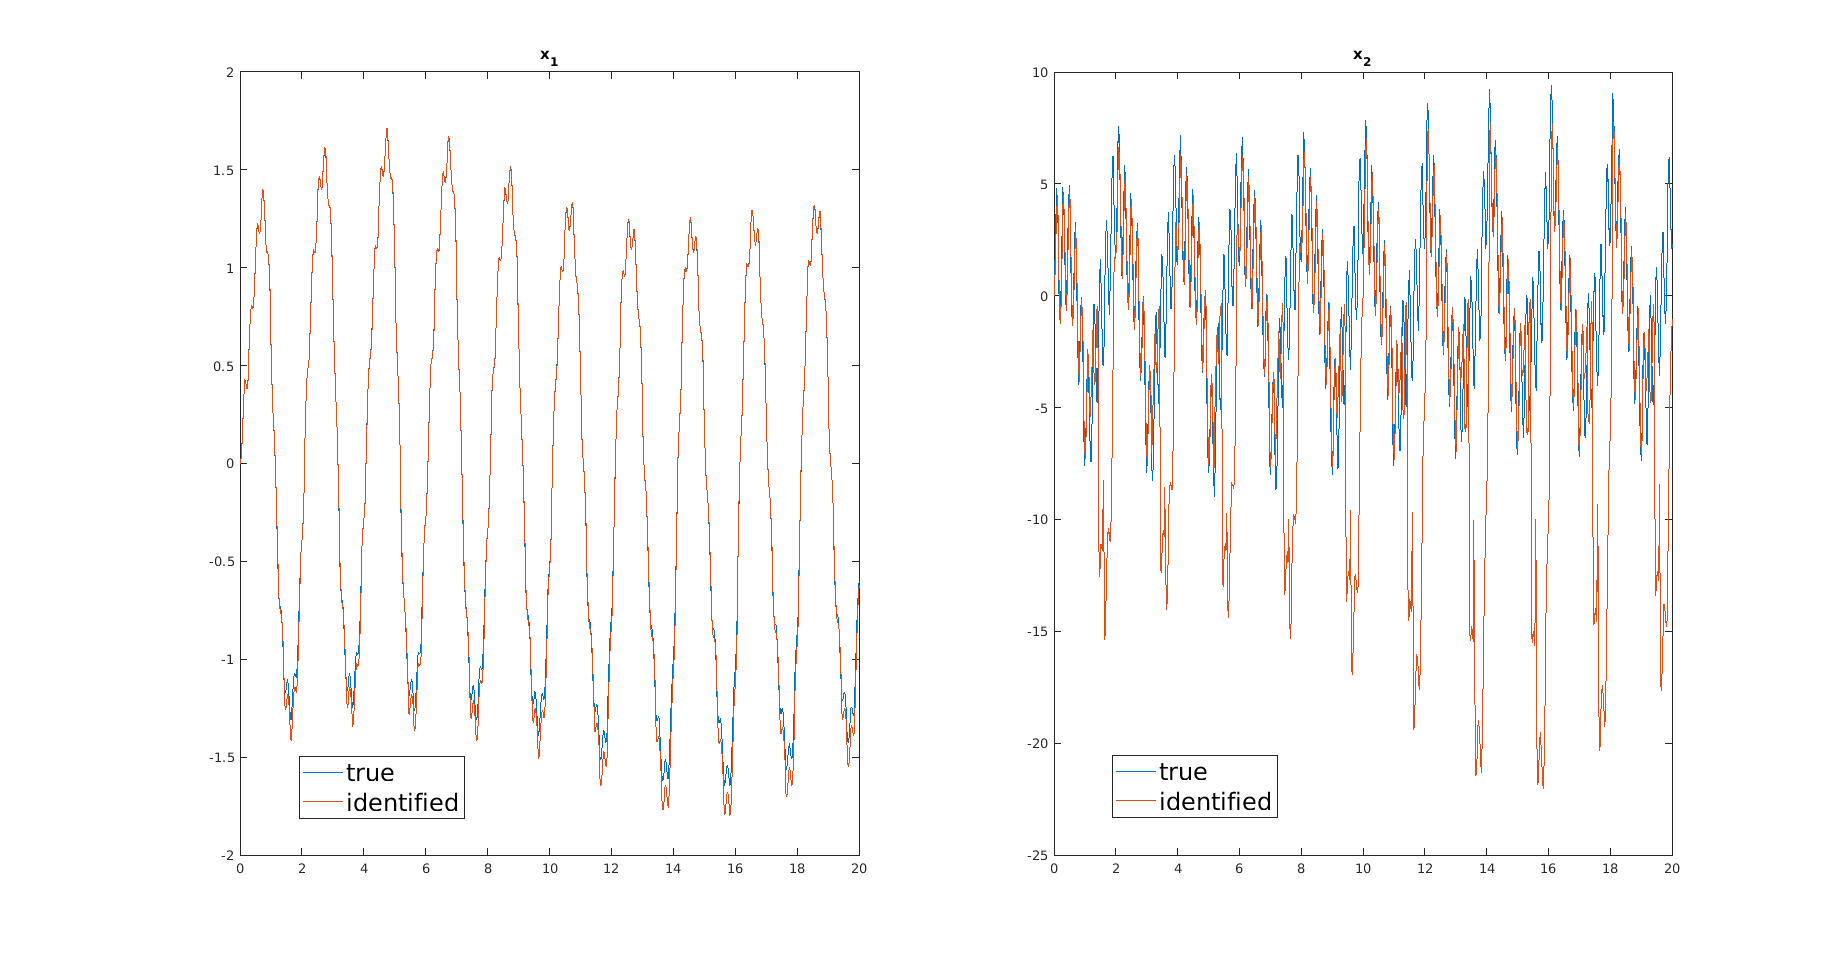
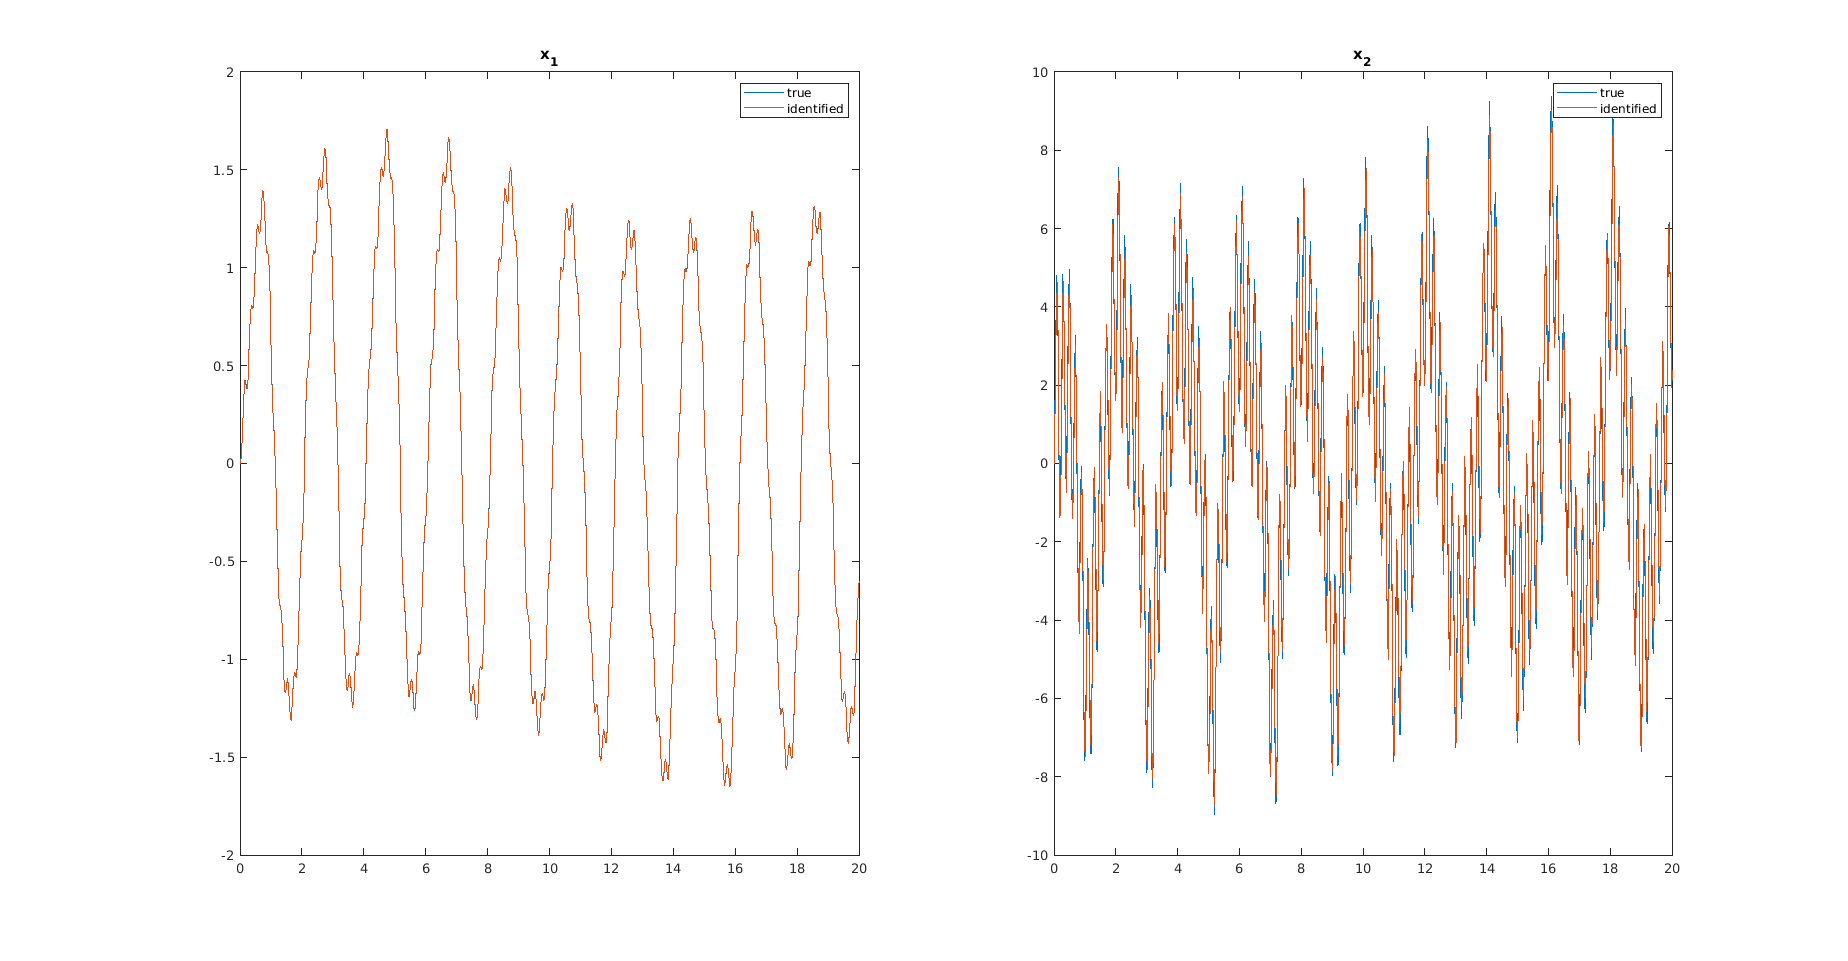
Added uniform grid -> good results

diff --git a/tsIdentification.m b/tsIdentification.m
@@ -13,8 +13,8 @@ function tsIdentification(isLoad)
     if isLoad == 1
         load data/motor_link.mat dataset
     else
-        x0Grid = [0 -2*pi; 0.2 pi];
-        dataset = collectData(rhs, x0Grid, T, learnStep, m, n);
+        x0Grid = uniformGrid([-pi/2 pi/2; -2*pi 2*pi], 4);
+        dataset = collectData(rhs, x0Grid, T, learnStep, m);
         dataName = 'data/motor_link';
         save(dataName, 'dataset')
     end
@@ -54,9 +54,22 @@ function dXdt = rhsMotorLink(x, u)
     dXdt(2) = -64*sin(x(1)) - 5*x(2) + 400*u;
 end
 
-function dataset = collectData(rhs, x0Grid, T, learnStep, m, n)
+function x0Grid = uniformGrid(ranges, nPoints)
+% create grid of initial points from uniform distribution 
+% ranges(i, :) -- range of i-th component
+% nDivisions -- the number of segments into which the range is divided
+    [n, ~] = size(ranges);  % n -- length(state vector)
+    x0Grid = zeros(nPoints, n);
+    for iComponent=1:n
+        scale = ranges(iComponent, 2) - ranges(iComponent, 1);
+        bias = ranges(iComponent, 1);
+        x0Grid(:, iComponent) = scale * rand(nPoints, 1) + bias;
+    end
+end
+
+function dataset = collectData(rhs, x0Grid, T, learnStep, m)
 % create simulated data for TS model identification
-    [nPoints, ~] = size(x0Grid);
+    [nPoints, n] = size(x0Grid);
     timesteps = 0:learnStep:T;
     nSteps = length(timesteps);
     dataset = zeros(nPoints * (nSteps-1), m + 2*n);
@@ -152,8 +165,3 @@ function plotIdentified(tsModel, rhs, method, T, learnStep)
 %     legend('true', 'identified')
 %     title(method)
 end
-
-
-
-
-

diff --git a/tsBasedControl.m b/tsBasedControl.m
@@ -34,10 +34,10 @@ function u = tsBasedControl(x, tsModel, learnStep)
     hatA = 1/learnStep * (waveA - eye(n));
     hatB = 1/learnStep * waveB;
     % 2.1 compare with ground truth
-    f = [x(2); -64*sin(x(1)) - 5*x(2)]
-    hatA * x
-    hatB
-    B = [0; 400]
+%     f = [x(2); -64*sin(x(1)) - 5*x(2)]
+%     hatA * x
+%     hatB
+%     B = [0; 400]
 
 
     % 3. Calculate u = SDRE(hatA, hatB)

diff --git a/mainSim.m b/mainSim.m
@@ -12,7 +12,8 @@ function mainSim(sysRhs, learnStep, T, tsModel)
     [~, X_true] = ode45(@(t, x) sysRhs(x, u(x)), timesteps, x0);
     
     figure()
-    plot(X_true')
+    plot(timesteps, X_true)
+    legend('x1', 'x2')
 end
 
 function dXdt = rhsMotorLink(x, u)
